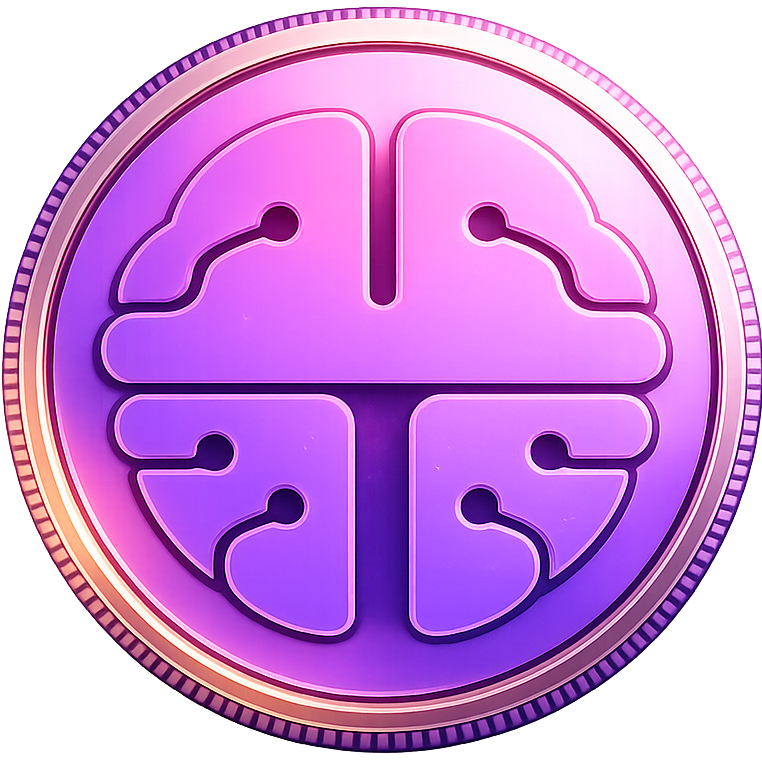
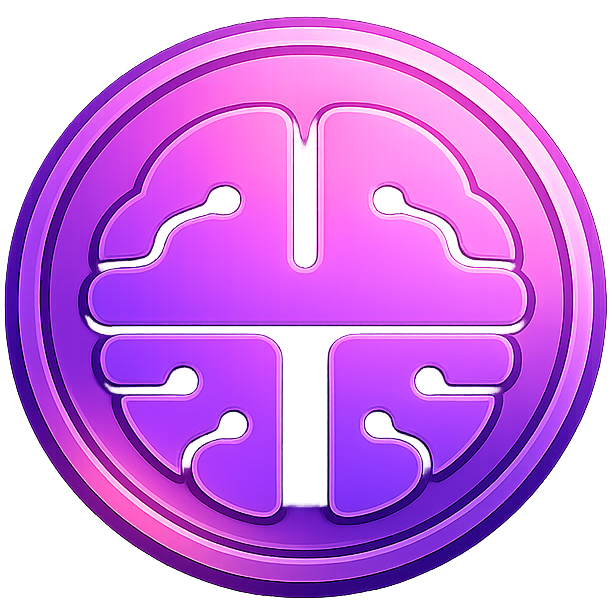
Fix tokens UI again

diff --git a/artifacts/tokai/src/pages/dashboard.tsx b/artifacts/tokai/src/pages/dashboard.tsx
@@ -896,7 +896,7 @@ export default function Dashboard({ session }: { session: Session }) {
       <div style={{ flex: 1 }} />
       <div style={{ display: "flex", flexDirection: "column", gap: 10 }}>
         <div style={{ display: "flex", alignItems: "center", gap: 10, padding: "10px 12px", background: "rgba(192,132,252,0.06)", border: "1px solid rgba(192,132,252,0.2)", borderRadius: 8 }}>
-          <img src="/tok-en.png" alt="TokEn" style={{ width: 28, height: 28, flexShrink: 0 }} />
+          <img src="/tok-en.png" alt="TokEn" style={{ width: 34, height: 34, flexShrink: 0 }} />
           <div style={{ fontFamily: "'Share Tech Mono', monospace", fontSize: 15, letterSpacing: 2 }}>
             <span style={{ color: "#7c3aed" }}>TOK</span><span style={{ color: "#c084fc" }}>ENS</span>
             <span style={{ color: "#c084fc" }}>: {tokEn}</span>
@@ -943,7 +943,7 @@ export default function Dashboard({ session }: { session: Session }) {
             <div style={{ padding: "6px 16px 10px", display: "flex", alignItems: "center", justifyContent: "space-between", gap: 12 }}>
               <div style={{ display: "flex", flexDirection: "column", gap: 4 }}>
                 <div style={{ display: "flex", alignItems: "center", gap: 7 }}>
-                  <img src="/tok-en.png" alt="TokEn" style={{ width: 20, height: 20, flexShrink: 0 }} />
+                  <img src="/tok-en.png" alt="TokEn" style={{ width: 24, height: 24, flexShrink: 0 }} />
                   <div style={{ fontFamily: "'Share Tech Mono', monospace", fontSize: 13, letterSpacing: 2 }}>
                     <span style={{ color: "#7c3aed" }}>TOK</span><span style={{ color: "#c084fc" }}>ENS</span>
                     <span style={{ color: "#c084fc" }}>: {tokEn}</span>